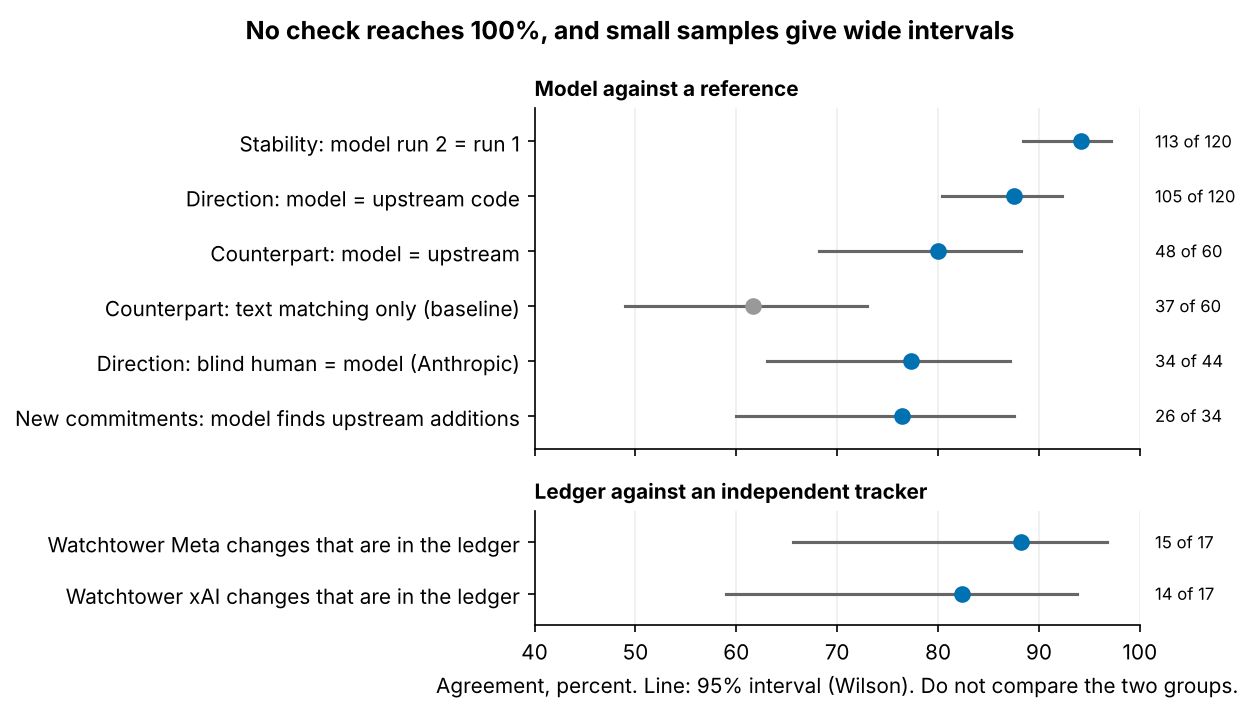
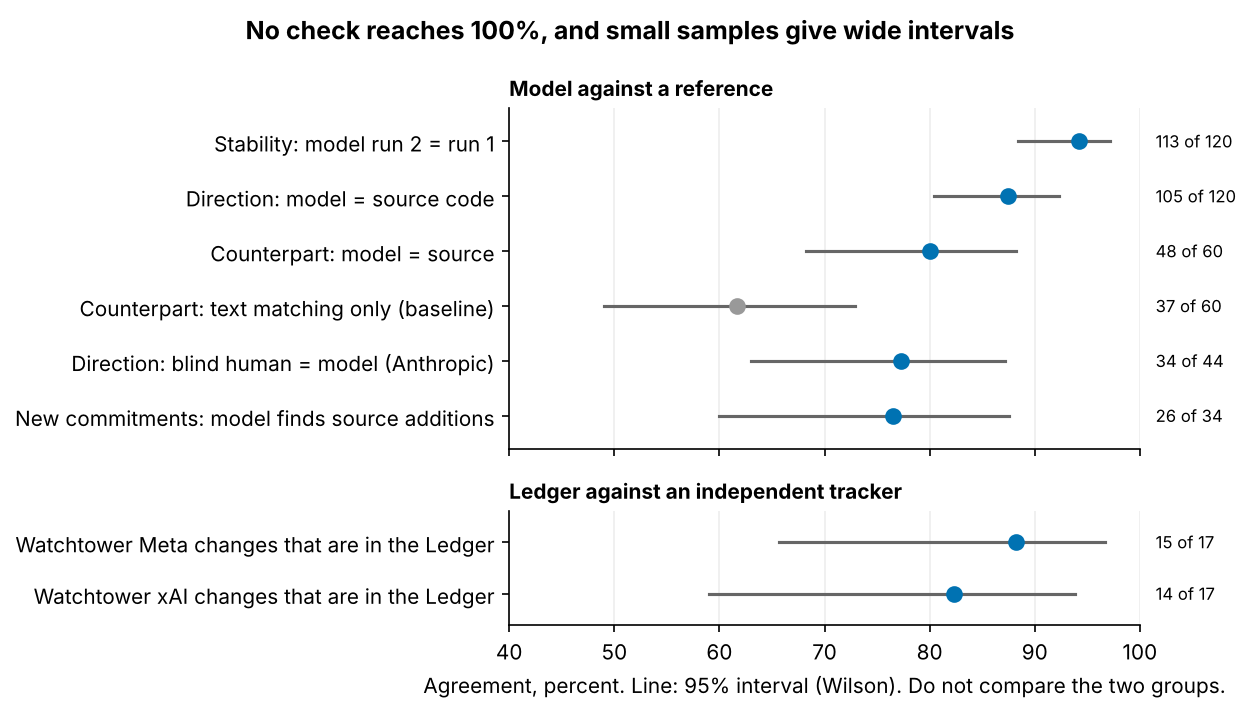
Figure 3 labels match the paper; Meta review count wording
- fig10: 'upstream' -> 'source', 'ledger' -> 'Ledger' in the row labels; image regenerated.
- README, validation.md, validation/meta.md: the 26 Meta review items are 6 weakened,
  4 removed, 15 candidates and 1 kept entry with a tracing disagreement. The earlier
  wording ('2 tracing disagreements') summed to 27; the second disagreement is one
  of the 6 weakened (meta-consequence-32db).

Claude-Session: https://claude.ai/code/session_01Tc7PmaWNtuHu6PRTpSvzTF

diff --git a/paper/make_figures.py b/paper/make_figures.py
@@ -272,14 +272,14 @@ def fig12():
 def fig10():
     groups = [("Model against a reference", [
                   ("Stability: model run 2 = run 1", 113, 120),
-                  ("Direction: model = upstream code", 105, 120),
-                  ("Counterpart: model = upstream", 48, 60),
+                  ("Direction: model = source code", 105, 120),
+                  ("Counterpart: model = source", 48, 60),
                   ("Counterpart: text matching only (baseline)", 37, 60),
                   ("Direction: blind human = model (Anthropic)", 34, 44),
-                  ("New commitments: model finds upstream additions", 26, 34)]),
+                  ("New commitments: model finds source additions", 26, 34)]),
               ("Ledger against an independent tracker", [
-                  ("Watchtower Meta changes that are in the ledger", 15, 17),
-                  ("Watchtower xAI changes that are in the ledger", 14, 17)])]
+                  ("Watchtower Meta changes that are in the Ledger", 15, 17),
+                  ("Watchtower xAI changes that are in the Ledger", 14, 17)])]
     fig, axes = plt.subplots(2, 1, figsize=(8.5, 4.8), sharex=True, gridspec_kw={"height_ratios": [6, 2]})
     for ax, (title, rows) in zip(axes, groups):
         rows = rows[::-1]

diff --git a/validation.md b/validation.md
@@ -422,7 +422,7 @@ Meta v2.1 is not in the upstream corpus. The ledger traced this pair itself. Fil
 | Tracing, two model runs, full document | 18 counterparts, 4 none. Same passage in both runs for 16 of 18. Both runs agree on the 4 "none". |
 | Direction, two model runs, full section | 12 kept, 6 weakened. 18 of 18 agreement between the runs. |
 | New commitments, two model runs | 15 candidates. 14 in both runs, 1 in run 2 only. |
-| Review by one person, not blind | 26 items: 6 weakened, 4 removed, 15 candidates, 2 tracing disagreements. He confirmed all 26. |
+| Review by one person, not blind | 26 items: 6 weakened, 4 removed, 15 candidates, and 1 kept entry where the two tracing runs disagreed. He confirmed all 26. The other tracing disagreement is one of the 6 weakened. |
 
 How to read this:
 

diff --git a/validation/meta.md b/validation/meta.md
@@ -8,7 +8,7 @@ Meta v2.1 is not in the upstream corpus. The ledger traced this pair itself. Fil
 | Tracing, two model runs, full document | 18 counterparts, 4 none. Same passage in both runs for 16 of 18. Both runs agree on the 4 "none". |
 | Direction, two model runs, full section | 12 kept, 6 weakened. 18 of 18 agreement between the runs. |
 | New commitments, two model runs | 15 candidates. 14 in both runs, 1 in run 2 only. |
-| Review by one person, not blind | 26 items: 6 weakened, 4 removed, 15 candidates, 2 tracing disagreements. He confirmed all 26. |
+| Review by one person, not blind | 26 items: 6 weakened, 4 removed, 15 candidates, and 1 kept entry where the two tracing runs disagreed. He confirmed all 26. The other tracing disagreement is one of the 6 weakened. |
 
 How to read this:
 
